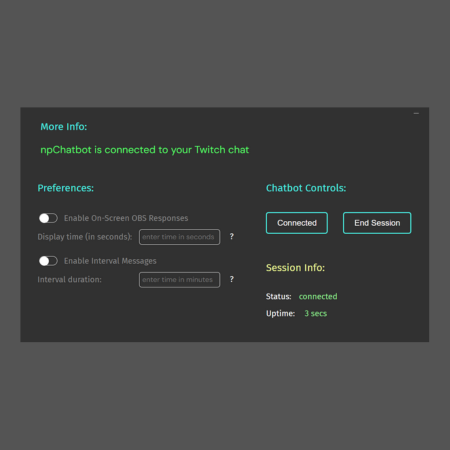
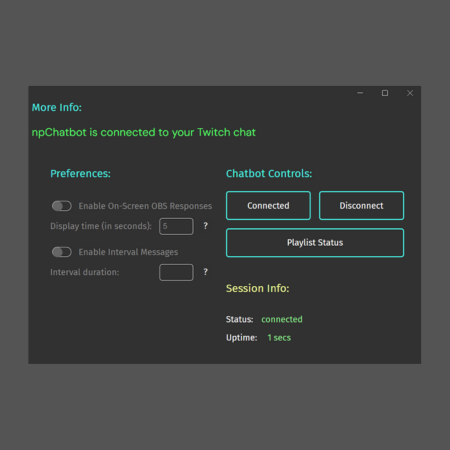
updated install images, added text for playlist status feature

Changed region(s): [[0.0311, 0.1867, 0.9644, 0.8089]]

diff --git a/src/pages/installation/panels/NPChatbotStartupPanel.tsx b/src/pages/installation/panels/NPChatbotStartupPanel.tsx
@@ -72,15 +72,15 @@ const NPChatbotStartupPanel = (): JSX.Element => {
 					alt='npChatbot instructions, step 7'
 					src='/images/installation/serato_03_final.png'
 				/>
-				
+
 				<p>
 					<span className='highlighted-installation-text'>
 						IMPORTANT - Playlist Visibility{' '}
 					</span>
 				</p>
 				<p>
-					npChatbot will not function properly if your live playlist is NOT
-					set to public.
+					npChatbot will not function properly if your live playlist is NOT set
+					to public.
 				</p>
 
 				<hr />
@@ -131,7 +131,62 @@ const NPChatbotStartupPanel = (): JSX.Element => {
 					<IconSpan /> stream as chat text or, optionally, on-screen as text in
 					your OBS configuration.
 				</p>
-				
+			</div>
+
+			<div className='installation-page-directions-step'>
+				<hr />
+				<p>
+					<span className='highlighted-installation-text'>
+						Testing your Serato
+						<IconSpan /> Live Playlist's status
+					</span>
+				</p>
+				<img
+					alt='npChatbot instructions, step 9'
+					src='/images/installation/setup_11_final.png'
+				/>
+				<p>
+					To test if your current Serato
+					<IconSpan /> Live Playlist is properly set as public and readable by
+					npChatbot, you can tap or click the{' '}
+					<span className='highlighted-installation-text'>
+						Playlist Status
+					</span>{' '}
+					button.
+				</p>
+				<p>
+					If your live playlist is configured correctly, you'll see a message in
+					npChatbot indicating this.
+				</p>
+				<p>
+					Note that npChatbot does not need to be connected to a live Twitch
+					stream for this feature to work so you can test this at any time.
+				</p>
+				<hr />
+				<p>
+					<span className='highlighted-installation-text'>
+						If the Playlist Status test fails...
+					</span>
+				</p>
+				<p>
+					If your live playlist is not properly set as public, you'll see a
+					message indicating this.
+				</p>
+				<img
+					alt='npChatbot instructions, step 10'
+					src='/images/installation/setup_12_final.png'
+				/>
+
+				<p>
+					This can occur if you forget to start your live playlist in Serato
+					<IconSpan />, if your live playlist is not set as public, or if your
+					live playlist session is disconnected for any reason during your live
+					stream.
+				</p>
+				<p>
+					Simply follow the steps above to start a new live playlist in Serato
+					<IconSpan /> and ensure the playlist is set as public.
+				</p>
 			</div>
 		</div>
 	)
